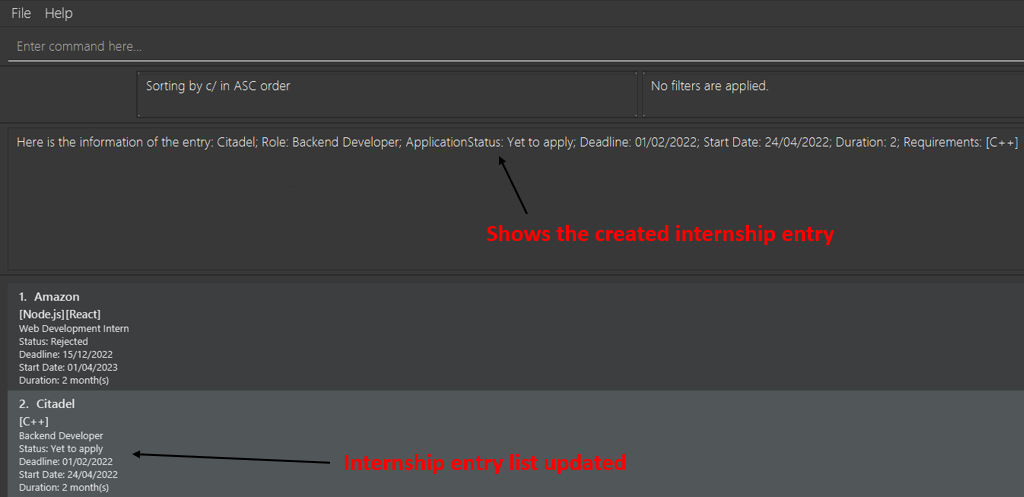
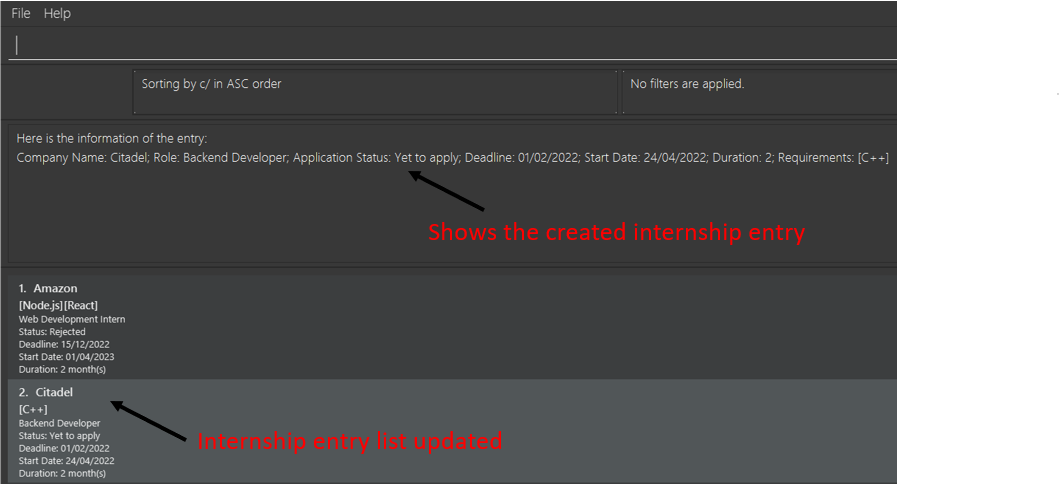
Rectify create command image and message

diff --git a/src/main/java/seedu/address/logic/commands/CreateCommand.java b/src/main/java/seedu/address/logic/commands/CreateCommand.java
@@ -33,13 +33,13 @@ public class CreateCommand extends InternshipCommand {
             + "[" + PREFIX_REQUIREMENT + "REQUIREMENT]...\n"
             + "Example: " + COMMAND_WORD + " "
             + PREFIX_COMPANY_NAME + "Jane Street "
-            + PREFIX_ROLE + "Coffee maker "
+            + PREFIX_ROLE + "ML Engineer "
             + PREFIX_APPLICATION_STATUS + "Yet to apply "
             + PREFIX_DEADLINE + "25/12/2022 "
             + PREFIX_START_DATE + "20/01/2023 "
             + PREFIX_DURATION + "3 "
             + PREFIX_REQUIREMENT + "C++ "
-            + PREFIX_REQUIREMENT + "Coffee ";
+            + PREFIX_REQUIREMENT + "Java ";
 
     public static final String MESSAGE_SUCCESS = "Here is the information of the entry: %s";
 

diff --git a/src/main/java/seedu/address/logic/Messages.java b/src/main/java/seedu/address/logic/Messages.java
@@ -36,10 +36,11 @@ public class Messages {
      */
     public static String format(Internship internship) {
         final StringBuilder builder = new StringBuilder();
-        builder.append(internship.getCompanyName())
+        builder.append("\nCompany Name: ")
+                .append(internship.getCompanyName())
                 .append("; Role: ")
                 .append(internship.getRole())
-                .append("; ApplicationStatus: ")
+                .append("; Application Status: ")
                 .append(internship.getApplicationStatus())
                 .append("; Deadline: ")
                 .append(internship.getDeadline())
